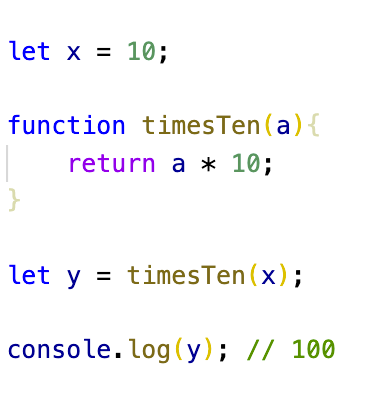
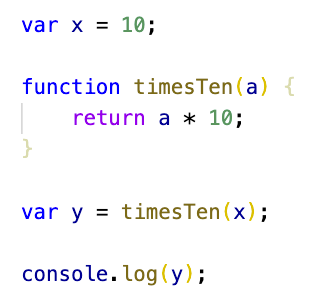
feat: change_img

diff --git a/index.js b/index.js
@@ -1,10 +1,12 @@
 
 
 
-console.log(variableWithVar); //undefined
+var x = 10;
 
-const variableWithVar = 10;
+function timesTen(a) {
+    return a * 10;
+}
 
-console.log(variableWithVar); //Cannot access 'variableWithVar' before initialization
+var y = timesTen(x);
 
-let variableWithLet = 20;
+console.log(y);

diff --git a/index.html b/index.html
@@ -14,6 +14,15 @@
 <body>
     <script>
 
+var x = 10;
+
+function timesTen(a) {
+    return a * 10;
+}
+
+var y = timesTen(x);
+
+console.log(y);
     </script>
 </body>
 </html>
